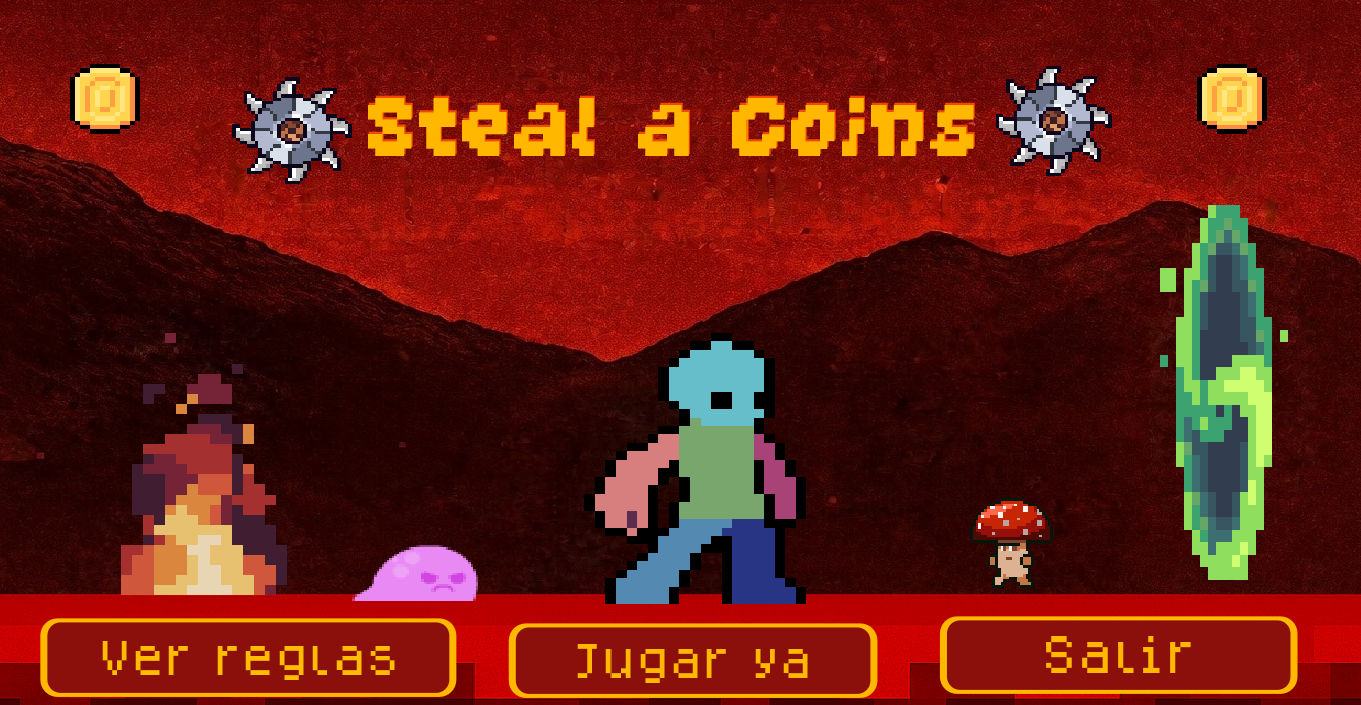
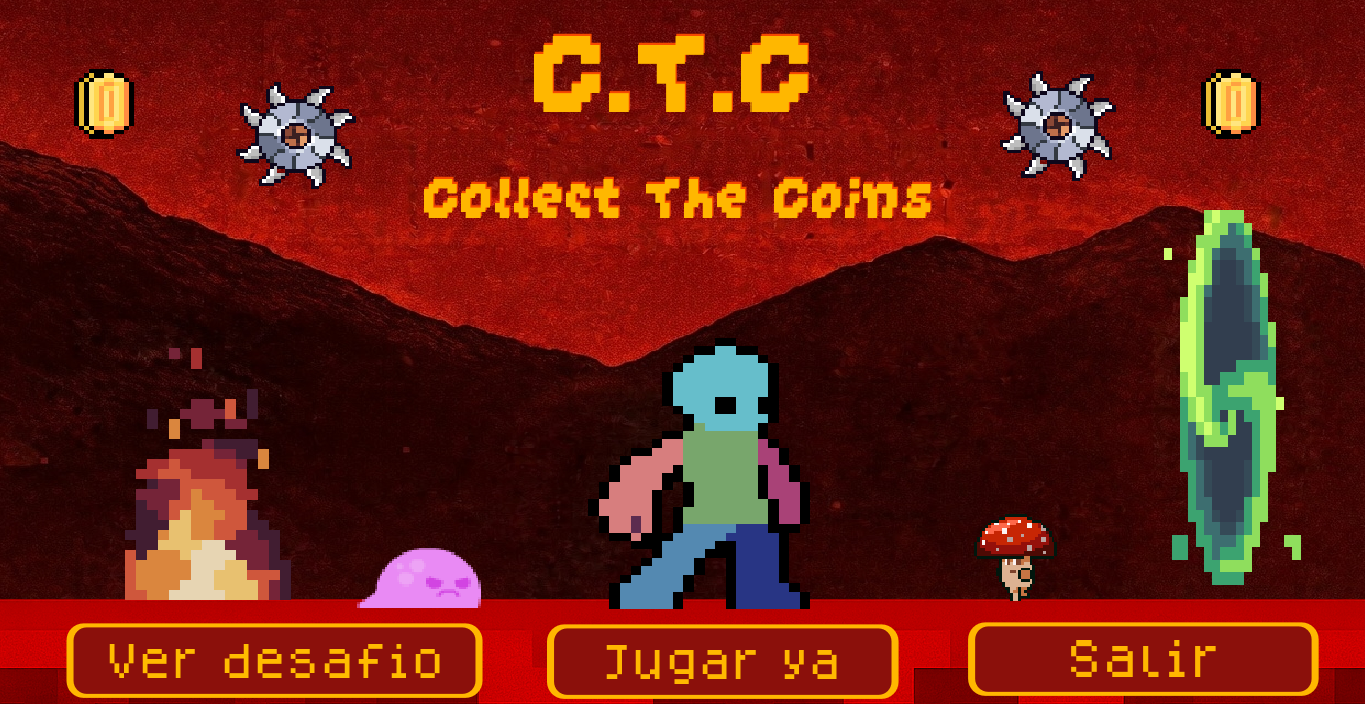
Version beta

diff --git a/index.html b/index.html
@@ -250,7 +250,7 @@
   <section class="contact-section" id="contacto">
     <div class="section-header centered">
       <div class="section-tag">Contacto</div>
-      <h2>¿Bugs, ideas, mejoras<br>o simplemente quieres?</h2>
+      <h2>¿Bugs, ideas, mejoras<br>o simplemente quieres saludar?</h2>
     </div>
     <form class="contact-form" action="https://formspree.io/f/xlgojvky" method="POST" id="contactForm">
       <input type="hidden" name="_replyto" value="showlader@elpuig.xeill.net" />
